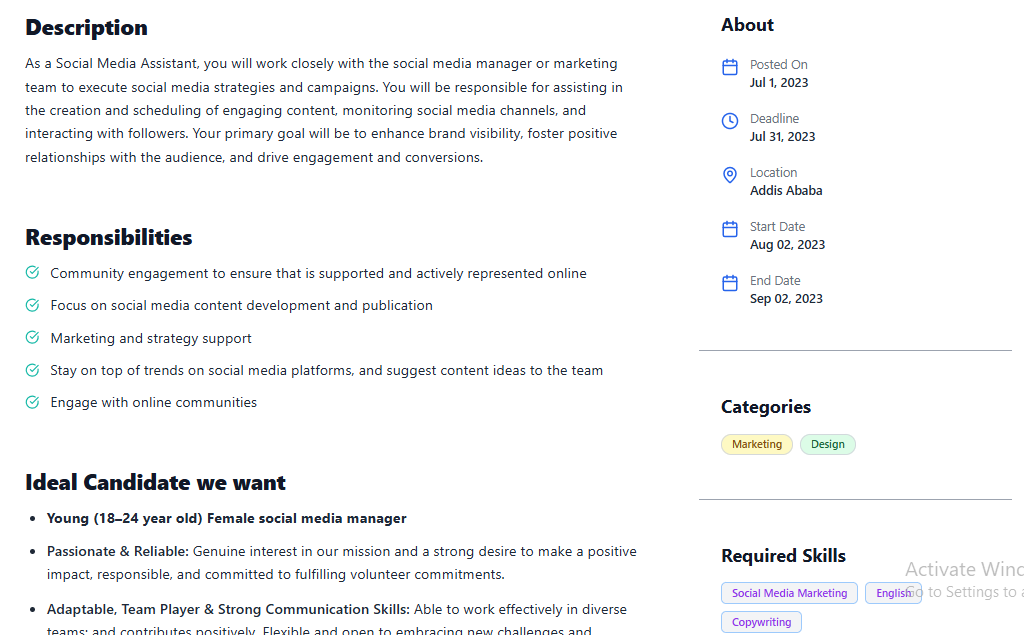
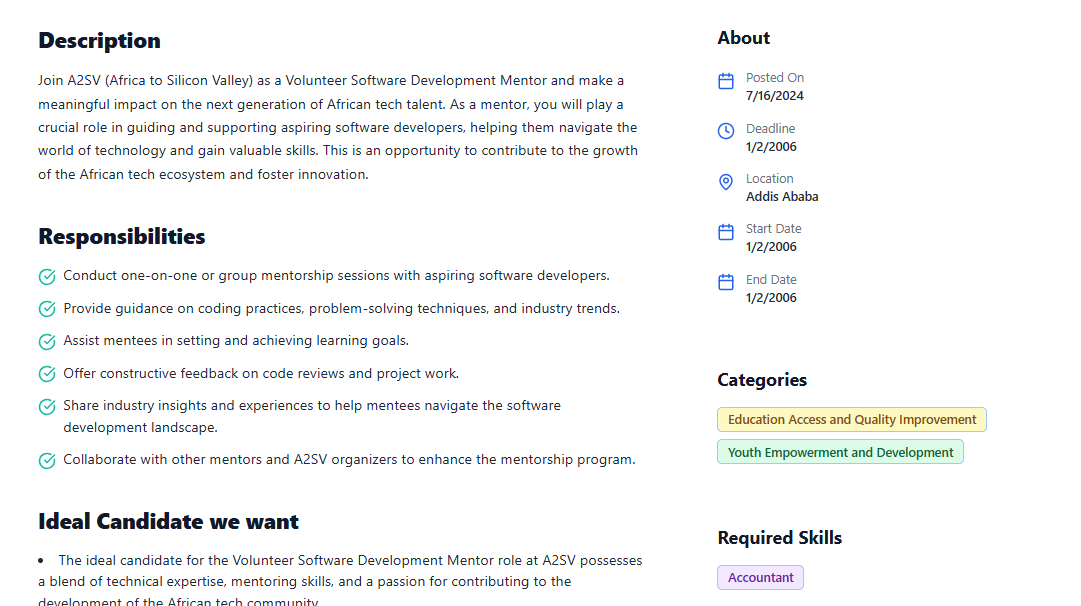
update readme

diff --git a/hooks/useJobs.ts b/hooks/useJobs.ts
@@ -31,7 +31,6 @@ export function useJobs() {
 
         const json = await res.json();
 
-        // Check if json.data is an array or single object
         const data = json.data;
         if (Array.isArray(data)) {
           setJobs(data);

diff --git a/README.md b/README.md
@@ -1,24 +1,22 @@
 # Job Listing Application
 
-This is a modern, responsive **Job Listing Dashboard** built with **Next.js**, **React**, **Tailwind CSS**, and **TypeScript**. The goal is to replicate a detailed job listing and description interface based on a Figma UI design. It features dynamic job data, clean navigation, and design precision.
+This is a modern, responsive **Job Listing Dashboard** built with **Next.js**, **React**, **Tailwind CSS**, and **TypeScript**. The goal is to replicate a detailed job listing and description interface based on a Figma UI design. It features dynamic job data fetched directly from a remote API, clean navigation, and design precision.
 
 ---
 
-##  What We Implemented
+## What We Implemented
 
-*  **Job Cards UI:** Reusable `JobCard` components styled to match the design exactly.
-*  **Job Detail Page:** Built with proper layout, icons, fonts, and spacing following the reference.
-*  **Icon Styling:** All icons are consistently styled using blue as specified in the design.
-*  **Back Navigation:** A visible back button allows users to return from the job detail page.
-*  **Section Dividers:** Clean horizontal separators between “About”, “Categories”, and “Required Skills”.
-*  **Ideal Candidate Block:** Correct layout and styling for candidate traits, age, and gender.
-*  **Mobile Responsive:** Fully responsive layout optimised for different screen sizes.
-*  **Radix UI Dropdowns:** Integrated dropdown filter using Radix UI for category/tag filtering.
-*  **Static JSON Data:** Populated job listings using local JSON for simulation.
+* **Job Cards UI:** Reusable `JobCard` components styled to match the design exactly.  
+* **Job Detail Page:** Built with proper layout, icons, fonts, and spacing following the reference.  
+* **Ideal Candidate Block:** Correct layout and styling for candidate traits, age, and gender.  
+* **Mobile Responsive:** Fully responsive layout optimised for different screen sizes.  
+* **API Data Integration:** Job listings and details are dynamically fetched from the remote API endpoint (`https://akil-backend.onrender.com/opportunities/search`) using the native JavaScript `fetch` API.  
+* **Dynamic Routing:** Implemented dynamic routes for detailed job pages based on job IDs fetched via `fetch`.  
+
 
 ---
 
-##  Screenshots
+## Screenshots
 
 ### 📌 Job Listing View
 
@@ -34,11 +32,11 @@ This is a modern, responsive **Job Listing Dashboard** built with **Next.js**, *
 
 ## 🛠 Tech Stack
 
-* ⚛ **Next.js** (React Framework)
-* 🎨 **Tailwind CSS** (Utility-first CSS)
-* 🔠 **TypeScript** (Typed JavaScript)
-* 🧩 **Radix UI** (Accessible UI components)
-* 📁 **Local JSON** (Mock job data)
+* ⚛ **Next.js** (React Framework)  
+* 🎨 **Tailwind CSS** (Utility-first CSS)  
+* 🔠 **TypeScript** (Typed JavaScript)  
+* 🧩 **Radix UI** (Accessible UI components)  
+* 📡 **API Integration** (Remote job listings API via `fetch`)
 
 ---
 
@@ -49,7 +47,7 @@ This is a modern, responsive **Job Listing Dashboard** built with **Next.js**, *
 ```bash
 git clone https://github.com/Fenet-damena/job-listing-application.git
 cd job-listing-application
-```
+````
 
 2. **Install Dependencies**
 
@@ -72,3 +70,4 @@ npm run dev
 ## 👩💻 Author
 
 **Fenet Damena**
+
